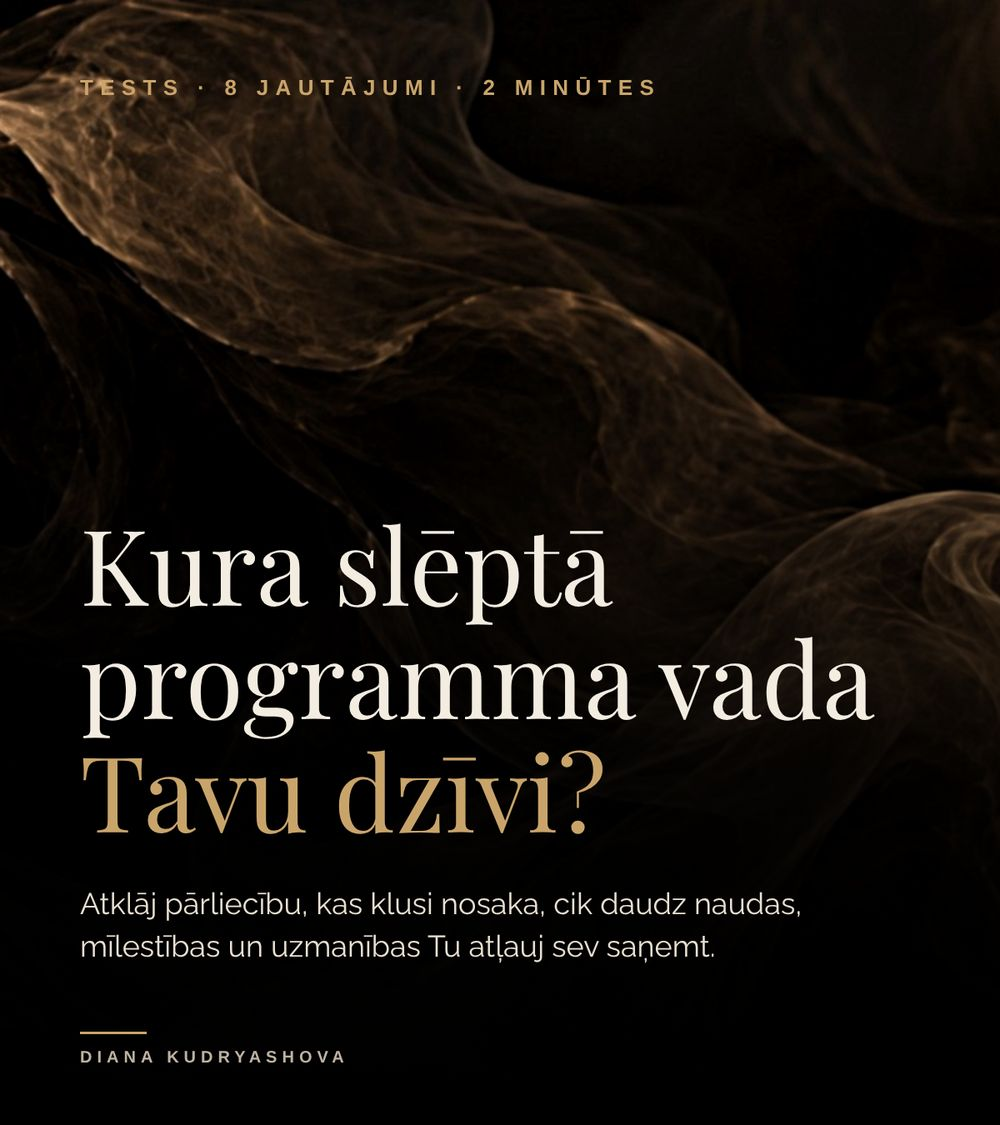
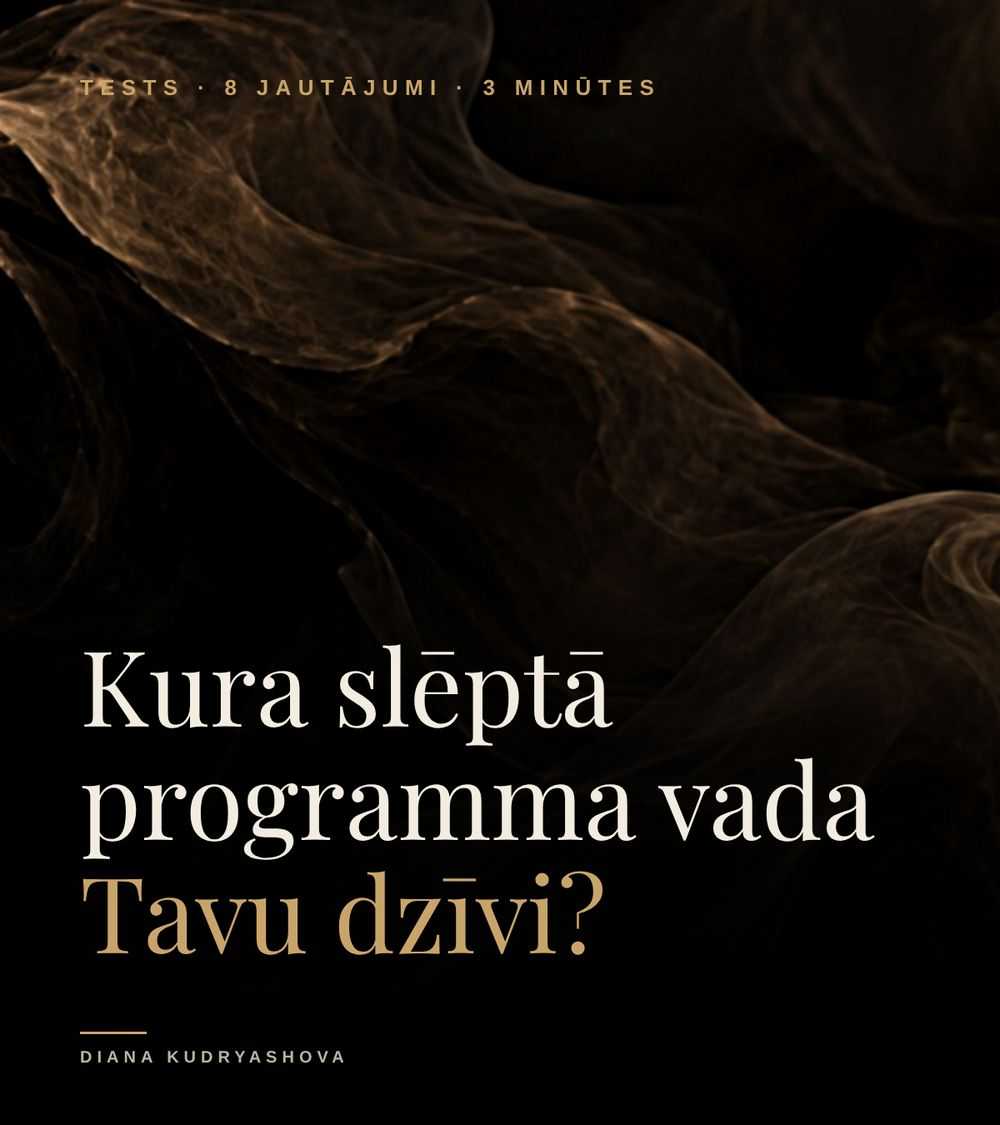
Diana's text edits: questions, start image (3 min), closing text
Claude-Session: https://claude.ai/code/session_01KV5PmNsQxw1MxmbhWxavo7

Changed region(s): [[0.062, 0.4667, 0.868, 0.8711]]

diff --git a/index.html b/index.html
@@ -78,14 +78,14 @@ const SHEET_URL = "https://script.google.com/macros/s/AKfycbzew3yjD0jhRbG6t_HJFz
 const DM_LINK = "https://ig.me/m/dianakudrjasova";
 const KEYS = ["A","B","C","D","E","F"];
 const Q = [
- {q:"Ir piektdienas vakars pēc garās nedēļas. Kur ir Tavas domas?",o:["Jau plānoju nākamo nedēļu, jo, ja ne es, tad kurš?","Joprojām pie datora, jo atpūta var pagaidīt, kamēr darbs ir padarīts.","Pie kāda cita problēmām, lai gan esmu piekususi.","Ritinu sievietes, kuras dzīvo dzīvi, ko vēlos es, un klusi jautāju: kāpēc ne es?","Pārskatu, ko šodien varēju izdarīt labāk.","Nedēļa bija laba, un man jau ir sajūta, ka drīz kaut kas noies greizi."]},
- {q:"Nauda pie Tevis pārsvarā nāk...",o:["Kad es pati pārvaldu katru sīkumu.","Kad strādāju vairāk par visiem apkārt.","Kad esmu tik daudz devusi, ka gandrīz jūtos vainīga to paņemt.","Lēnāk, nekā vajadzētu, jo es neparādu, ko patiesībā spēju.","Tikai tad, kad viss ir izdarīts nevainojami.","Viļņos: atnāk un tikpat ātri kaut kur aiziet."]},
- {q:"Kāds Tev piedāvā palīdzību. Ko Tu saki?",o:["\"Viss kārtībā, es pati\", jo tā ir ātrāk un pareizāk.","Jā, bet jūtu, ka vēl neesmu to nopelnījusi.","Paldies, un es jau domāju, kā viņam atmaksāt.","Neko, jo baidos, ka viņi ieraudzīs, ka neesmu tik sakārtota, kā izskatos.","Jā, bet vispirms sakārtoju visu, lai neizskatās, ka man nesanāk.","Priecājos, bet klusībā gaidu, kad tas beigsies vai kas par to būs jāmaksā."]},
- {q:"Tavs partneris vēlas, lai Tu pilnībā atslābsti un saņem. Tu...",o:["Nevaru izslēgt galvu.","Esmu pārāk nogurusi, lai to patiesi baudītu.","Vispirms parūpējos, lai viņam ir labi.","Sastingstu un jūtos kautrīga savā ķermenī.","Domāju, kā izskatos un vai daru pareizi.","Pēc brīža atrodu iemeslu strīdam vai attālumam."]},
- {q:"Tu domā par cenu pacelšanu vai palūgt vairāk. Tava pirmā doma ir...",o:["\"Tikai tad, kad viss būs ideāli sakārtots.\"","\"Man vispirms vairāk jāpierāda sevi.\"","\"Ko tā viņi padomās, ka esmu alkatīga?\"","\"Kas es tāda esmu, lai to prasītu?\"","\"Vispirms jāuzlabo piedāvājums, tas vēl nav gana labs.\"","\"Pacelšu, un tad visi klienti pazudīs.\""]},
- {q:"Kurš teikums visvairāk līdzinās balsij Tavā galvā?",w:1.5,o:["\"Ja es atlaidīšu, viss sabruks.\"","\"Dzīvē nekas nenāk par velti.\"","\"Vispirms visi pārējie, es vēlāk.\"","\"Neaizņem pārāk daudz vietas.\"","\"Tam jābūt perfekti, citādi labāk nedarīt nemaz.\"","\"Tas ir pārāk labi, lai būtu patiesi.\""]},
- {q:"Kad ir laiks publicēt Instagram vai parādīties kamerā, Tu...",o:["Plānoju katru vārdu un kadru, lai nekas nenotiek nejauši.","Uztveru to kā vēl vienu uzdevumu sarakstā.","Uztraucos, kā to uztvers citi.","Godīgi sakot, labāk paliktu aizkulisēs.","Pārrakstu un pārfilmēju, līdz ir perfekti, vai nepublicēju vispār.","Sāku ar degsmi, nopublicēju dažus ierakstus un tad pazudu uz nedēļām."]},
- {q:"Ko Tu šobrīd slepeni vēlies visvairāk?",o:["Beidzot izelpot un uzticēties, ka dzīve mani tur.","Nopelnīt vairāk, strādājot mazāk.","Lai par mani rūpējas tā, kā es rūpējos par visiem.","Lai mani redz, kāro un izvēlas tieši tādu, kāda esmu.","Beidzot atļauties kļūdīties un justies mierīgi.","Lai labais beidzot paliek un nepazūd."]}
+ {q:"Ir piektdienas vakars pēc garās nedēļas. Kur ir Tavas domas?",o:["Jau plānoju nākamo nedēļu, jo, ja ne es, tad kurš?","Joprojām pie datora, jo atpūta var pagaidīt, ir jāizdara darbs.","Pie kāda cita problēmām, lai gan esmu piekususi.","Skrolēju IG, skatos uz citu dzīvi un domāju: kāpēc man tā nav?","Pārskatu, ko šodien varēju izdarīt labāk.","Nedēļa bija laba, un man jau ir sajūta, ka drīz kaut kas noies greizi."]},
+ {q:"Nauda pie Tevis pārsvarā nāk...",o:["Kad es pati visu izdaru un pārvaldu.","Kad strādāju vairāk par visiem apkārt.","Kad esmu tik daudz devusi, ka gandrīz jūtos vainīga to paņemt.","Lēnāk, nekā vajadzētu, jo es neparādu, ko patiesībā spēju.","Tikai tad, kad viss ir izdarīts nevainojami.","Viļņos: atnāk un tikpat ātri kaut kur aiziet."]},
+ {q:"Kāds Tev piedāvā palīdzību. Ko Tu saki?",o:["\"Viss kārtībā, es pati\", jo tā ir ātrāk un pareizāk.","Jā, bet jūtu, ka vēl neesmu to nopelnījusi.","Paldies, un es jau domāju, kā viņam atmaksāt.","Neko, jo baidos, ka viņi ieraudzīs, ka neesmu tik spēcīga, kā izskatos.","Jā, bet vispirms sakārtoju visu, lai neizskatās, ka man nesanāk.","Priecājos, bet klusībā gaidu, kad tas beigsies vai kad par to būs jāmaksā."]},
+ {q:"Tavs partneris vēlas, lai Tu pilnībā atslābsti un saņem... Tu...",o:["Nevaru izslēgt galvu.","Esmu pārāk nogurusi, lai to patiesi baudītu.","Vispirms parūpējos, lai viņam ir labi.","Sastingstu un jūtos kautrīga savā ķermenī.","Domāju, kā izskatos un vai daru pareizi.","Pēc brīža atrodu iemeslu, lai attālinātos."]},
+ {q:"Tu domā par cenu pacelšanu vai palūgt paaugstinājumu. Tava pirmā doma ir...",o:["\"Tikai tad, kad viss būs ideāli sakārtots.\"","\"Man vispirms vairāk jāpierāda sevi.\"","\"Viņi padomās, ka esmu alkatīga?\"","\"Kas es tāda esmu, lai to prasītu?\"","\"Vispirms jāuzlabo piedāvājums, tas vēl nav gana labs.\"","\"Pacelšu, un tad visi klienti pazudīs.\""]},
+ {q:"Kurš teikums visvairāk līdzinās balsij Tavā galvā?",w:1.5,o:["\"Ja es atslābšu, viss sabruks.\"","\"Dzīvē nekas nenāk par velti.\"","\"Vispirms visi pārējie, es vēlāk.\"","\"Neaizņem pārāk daudz vietas.\"","\"Tam jābūt perfekti, citādi labāk nedarīt nemaz.\"","\"Tas ir pārāk labi, lai būtu patiesi.\""]},
+ {q:"Kad ir laiks publicēt Instagram vai parādīties kamerā, Tu...",o:["Plānoju katru vārdu un kadru, lai viss sanāk perfekti.","Uztveru to kā vēl vienu uzdevumu sarakstā.","Uztraucos, kā to uztvers citi.","Godīgi sakot, labāk paliktu aizkulisēs.","Pārrakstu un pārfilmēju, līdz ir perfekti, vai nepublicēju vispār.","Sāku ar degsmi, nopublicēju dažus ierakstus un tad pazudu uz nedēļām."]},
+ {q:"Ko Tu šobrīd slepeni vēlies visvairāk?",o:["Beidzot izelpot un patiesi uzticēties procesam.","Nopelnīt vairāk, strādājot mazāk.","Lai par mani rūpējas tā, kā es rūpējos par visiem.","Lai mani redz, kāro un izvēlas tieši tādu, kāda esmu.","Beidzot atļauties kļūdīties un justies mierīgi.","Lai labais beidzot paliek un nepazūd."]}
 ];
 const R = {
  A:{n:"Kontrolētāja",d:"Tu esi tā, uz kuru visi balstās. Tu vadi biznesu, mājas un pusi no citu cilvēku dzīvēm, un no malas tas izskatās pēc spēka. Bet iekšā Tavs prāts nekad neizslēdzas, jo kādā brīdī Tu iemācījies, ka tiklīdz atlaidīsi, viss sabruks.",c:"atpūtu, baudu un spēju saņemt. Nauda, mīlestība un palīdzība nevar ienākt, ja katru vietu jau aizņem Tava kontrole, tāpēc Tu turpini visu nest viena un brīnies, kāpēc ir tik smagi.",s:"šonedēļ izvēlies vienu lietu, ko vienmēr dari pati, un ļauj kādam citam to izdarīt savā veidā, nelabojot. Pamani paniku, kas paceļas, izelpo to un pasaki sev: \"Es esmu drošībā, arī kad nekontrolēju.\""},
@@ -105,7 +105,7 @@ function start(){
   show(h("div",{class:"screen start"},
     h("img",{class:"start-img",src:"img/start.jpg",alt:"Kura slēptā programma vada Tavu dzīvi?",width:1000,height:1125}),
     h("button",{class:"btn",on:{click:()=>{st.i=0;question();}}},"Sākt testu →"),
-    h("div",{class:"meta"},"8 jautājumi · apmēram 2 minūtes")
+    h("div",{class:"meta"},"8 jautājumi · apmēram 3 minūtes")
   ));
 }
 
@@ -186,7 +186,9 @@ function result(k){
       h("div",{class:"box"},h("h3",{},"Ko tas Tev maksā"),h("p",{},cap(r.c))),
       h("div",{class:"box"},h("h3",{},"Tavs pirmais solis"),h("p",{},cap(r.s))),
       h("div",{class:"close"},
-        h("p",{html:"Zināt savu programmu ir tikai sākums. Tā nemainās tikai tāpēc, ka Tu to saproti, un saproti, no kurienes tā nāk. Tā mainās tad, kad Tu šodienā veido to identitāti, kurai tās vairs nav. Tieši to mēs darām <strong>High Caliber Woman</strong> programmā, četrnedēļu programmā, kura sākas 10. janvārī. Lai izietu atlasi uz šo VIP programmu, raksti man DM \"HCW\"."}),
+        h("p",{},"Zināt savu programmu ir tikai sākums. Tā nemainās tikai tāpēc, ka Tu to saproti, un zini, no kurienes tā nāk."),
+        h("p",{html:"Tā mainās tad, kad Tu šodienā veido to identitāti, kurai tās vairs nav. Tieši to mēs darām <strong>High Caliber Woman</strong> 4 nedēļu programmā, kura sākas 10. janvārī."}),
+        h("p",{},"Lai izietu atlasi, raksti man DM \"HCW\"."),
         h("a",{class:"btn",href:DM_LINK,target:"_blank",rel:"noopener"},"Rakstīt man Instagram →")
       )
     ),
